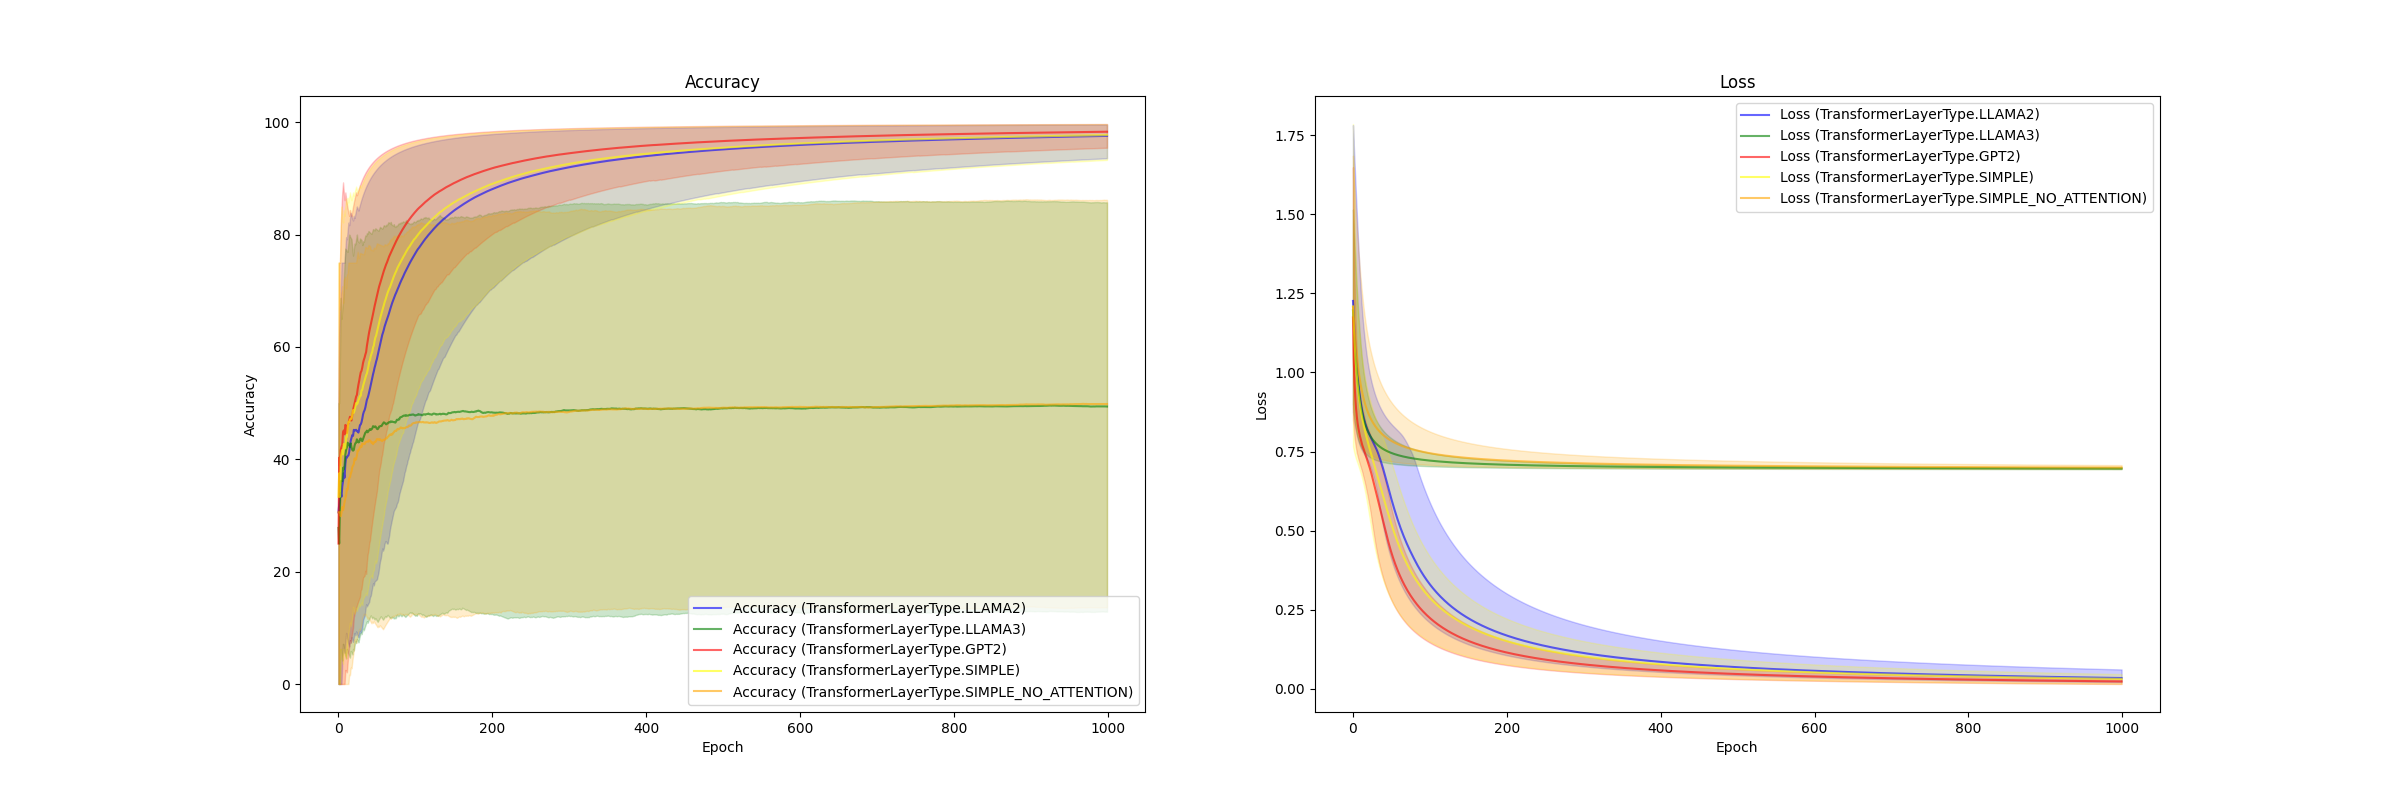
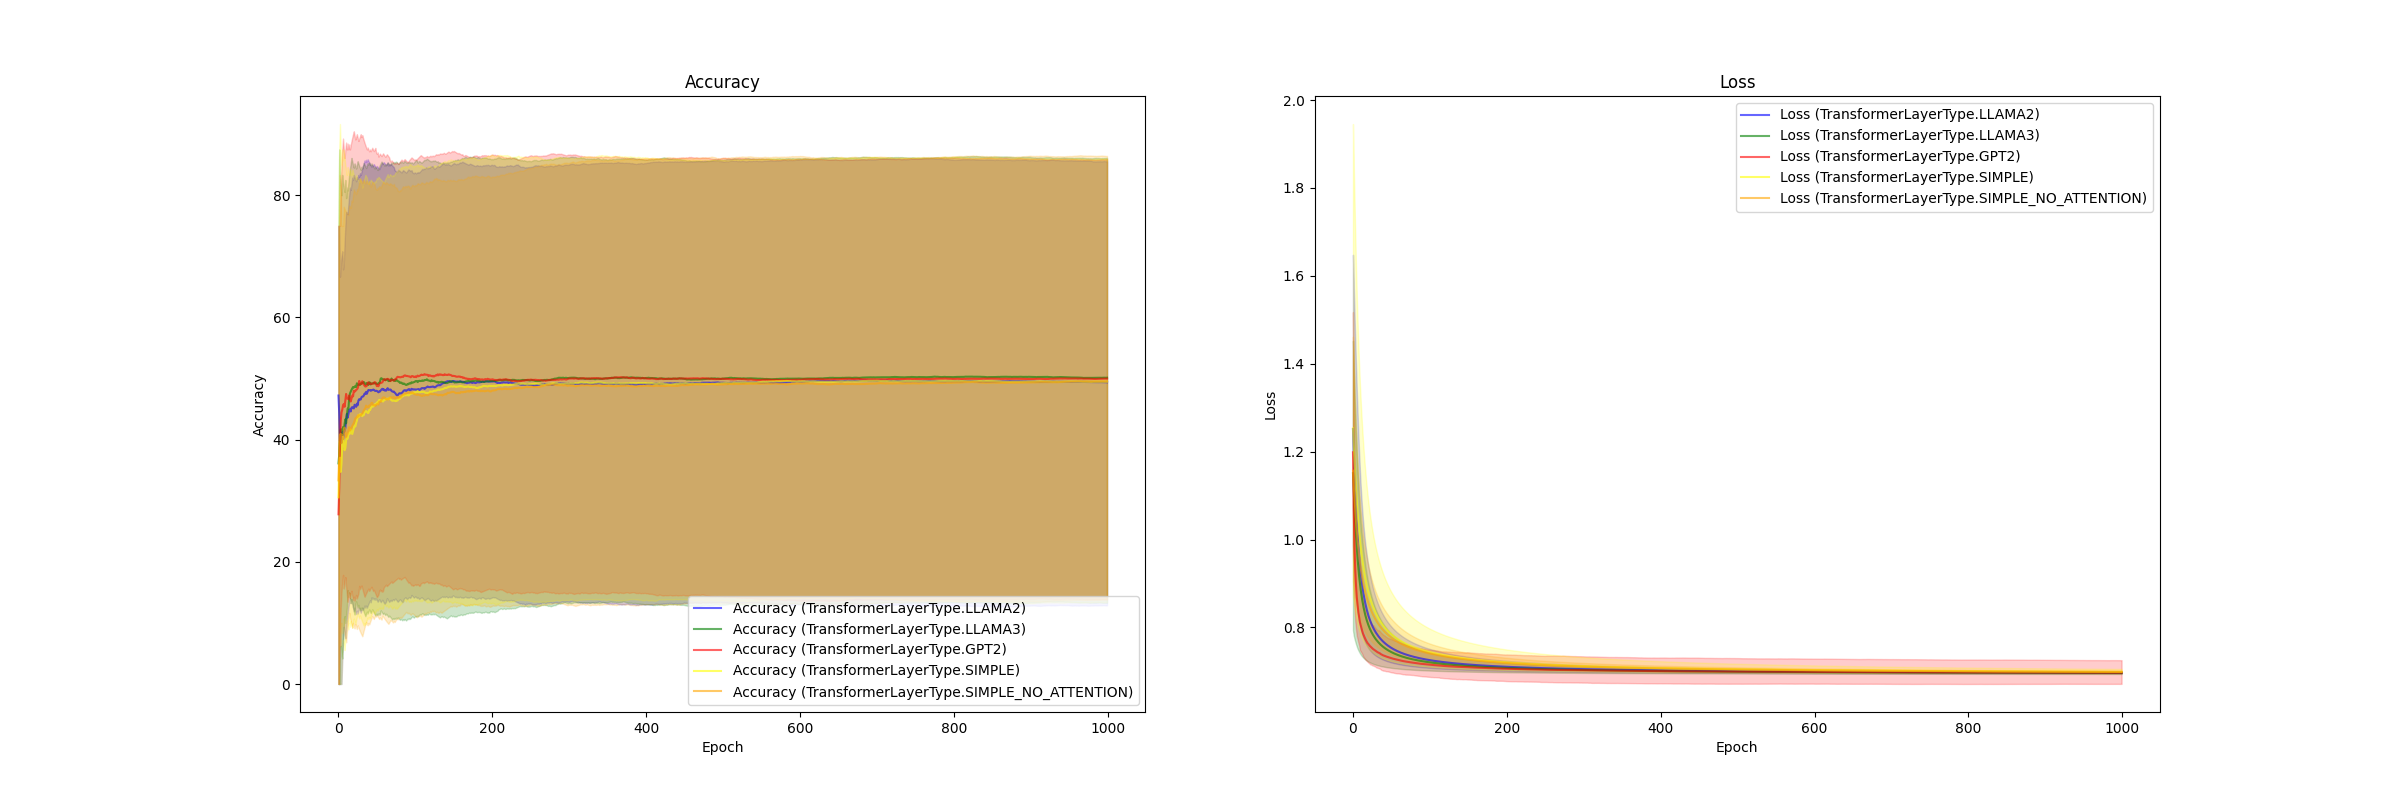
Add dyt layer

Changed region(s): [[0.0938, 0.1562, 0.4688, 0.8438], [0.5312, 0.3125, 0.9062, 0.875], [0.5, 0.5, 0.5312, 0.5312]]

diff --git a/nlp/transformer-hacks/model.py b/nlp/transformer-hacks/model.py
@@ -7,7 +7,7 @@ from optimization_playground_shared.nlp.PositionalEncoding import (
 )
 from enum import Enum
 import torch.nn.functional as F
-from layers import SimpleGQA
+from layers import SimpleGQA, MultiheadAttention, DyT
 
 class PositionalEmbeddingType(Enum):
     NONE = 0
@@ -23,6 +23,11 @@ class TransformerLayerType(Enum):
     LLAMA2 = 3
     LLAMA3 = 4
 
+class NormalizationLayerType(Enum):
+    LAYER_NORM = 0
+    DyT = 1
+
+
 @dataclass
 class Config:
     sequence_length: int
@@ -33,7 +38,23 @@ class Config:
     padding_index: int
     positional_embedding: PositionalEmbeddingType = PositionalEmbeddingType.NN_EMBEDDING
     transformer_layer: TransformerLayerType = TransformerLayerType.SIMPLE
+    normalization_layer: NormalizationLayerType =NormalizationLayerType.LAYER_NORM
     dropout: float = 0.01
+
+class NormalizationLayer(nn.Module):
+    def __init__(self, config: Config, size):
+        super().__init__()
+        self.config = config
+        
+        if self.config.normalization_layer == NormalizationLayerType.DyT:
+            self.norm = DyT(size)
+        elif self.config.normalization_layer == NormalizationLayerType.LAYER_NORM:
+            self.norm = nn.LayerNorm(size)
+        else:
+            raise Exception(f"Unknown {self.config.normalization_layer}")
+
+    def forward(self, X):
+        return self.norm(X)
 
 class LlamaFeedForward(nn.Module):
     def __init__(self, config: Config):
@@ -65,10 +86,9 @@ class RoPEMultiheadAttention(nn.Module):
                 num_groups=1,
             )
         else:
-            self.mha = nn.MultiheadAttention(
+            self.mha = MultiheadAttention(
                 embed_dim=embed_dim,
-                num_heads=num_heads,
-                batch_first=True,
+                num_query_heads=num_heads,
             )
         self.rope = RotaryPositionalEncoding(
             d_model=embed_dim, max_len=max_len
@@ -131,10 +151,9 @@ class GptTransformerLayer(nn.Module):
     def __init__(self, config: Config):
         super().__init__()
         self.configs = config
-        self.self_attention = nn.MultiheadAttention(
+        self.self_attention = MultiheadAttention(
             embed_dim=config.dim_embeddings,
-            num_heads=config.num_attention_heads,
-            batch_first=True,
+            num_query_heads=config.num_attention_heads,
         )
         self.dropout = nn.Dropout(p=self.configs.dropout)
         self.linear = nn.Sequential(
@@ -144,8 +163,8 @@ class GptTransformerLayer(nn.Module):
                 nn.Linear(256, self.configs.dim_embeddings),
             ]
         )
-        self.layer_norm_in = nn.LayerNorm(config.dim_embeddings)
-        self.layer_norm_out = nn.LayerNorm(config.dim_embeddings)
+        self.layer_norm_in = NormalizationLayer(config, config.dim_embeddings)
+        self.layer_norm_out = NormalizationLayer(config, config.dim_embeddings)
 
     def forward(self, X, mask):
         attn_output = self.get_attention_output(X, mask)
@@ -161,10 +180,9 @@ class SimpleTransformerLayer(nn.Module):
     def __init__(self, config: Config):
         super().__init__()
         self.configs = config
-        self.self_attention = nn.MultiheadAttention(
+        self.self_attention = MultiheadAttention(
             embed_dim=config.dim_embeddings,
-            num_heads=config.num_attention_heads,
-            batch_first=True,
+            num_query_heads=config.num_attention_heads,
         )
         self.module = nn.Sequential(
             *[
@@ -172,8 +190,8 @@ class SimpleTransformerLayer(nn.Module):
                 nn.ReLU(),
             ]
         )
-        self.layer_norm_in = nn.LayerNorm(config.dim_embeddings)
-        self.layer_norm_out = nn.LayerNorm(config.dim_embeddings)
+        self.layer_norm_in = NormalizationLayer(config, config.dim_embeddings)
+        self.layer_norm_out = NormalizationLayer(config, config.dim_embeddings)
 
     def forward(self, X, mask):
         attn_output = self.get_attention_output(X, mask)
@@ -271,7 +289,7 @@ class Model(nn.Module):
         self.output_layer = nn.Linear(
             self.config.dim_embeddings, self.config.vocab_size
         )
-        self.layer_norm = nn.LayerNorm(self.config.dim_embeddings)
+        self.layer_norm = NormalizationLayer(config, self.config.dim_embeddings)
 
     def forward(self, x: torch.Tensor):
         assert len(x.shape) == 2

diff --git a/nlp/transformer-hacks/layers.py b/nlp/transformer-hacks/layers.py
@@ -1,14 +1,14 @@
+import torch
 import torch.nn as nn
 import torch.nn.functional as F
 
-class SimpleGQA(nn.Module):
-    def __init__(self, embed_dim, num_query_heads, num_groups):
-        super(SimpleGQA, self).__init__()
-        assert num_query_heads % num_groups == 0, "num_query_heads must be divisible by num_groups"
-        
+class MultiheadAttention(nn.Module):
+    def __init__(self, embed_dim, num_query_heads, num_groups=None):
+        super().__init__()
+
         self.embed_dim = embed_dim
         self.num_query_heads = num_query_heads
-        self.num_groups = num_groups
+        self.num_groups = num_query_heads if num_groups is None else num_groups
         self.head_dim = embed_dim // num_query_heads
         
         # Linear projections
@@ -16,6 +16,40 @@ class SimpleGQA(nn.Module):
         self.k_proj = nn.Linear(embed_dim, self.num_groups * self.head_dim)
         self.v_proj = nn.Linear(embed_dim, self.num_groups * self.head_dim)
         self.out_proj = nn.Linear(embed_dim, embed_dim)
+        self.enable_gqa = not (num_groups is None)
+
+    def forward(self, query, key, value, attn_mask=None, is_causal=False):
+        batch_size, seq_len, _ = query.size()
+        
+        # Project to Q, K, V
+        q: torch.Tensor = self.q_proj(query).view(batch_size, seq_len, self.num_query_heads, self.head_dim)
+        k: torch.Tensor = self.k_proj(key).view(batch_size, seq_len, self.num_groups, self.head_dim)
+        v: torch.Tensor = self.v_proj(value).view(batch_size, seq_len, self.num_groups, self.head_dim)
+        
+        # Transpose to [batch, heads, seq, head_dim]
+        q = q.transpose(1, 2)
+        k = k.transpose(1, 2)
+        v = v.transpose(1, 2)
+        
+        out = F.scaled_dot_product_attention(
+            q, k, v,
+            attn_mask=attn_mask,
+            dropout_p=0.0,
+            is_causal=is_causal,
+            enable_gqa=self.enable_gqa,
+        )
+        
+        out = out.transpose(1, 2).contiguous().view(batch_size, seq_len, self.embed_dim)
+        return self.out_proj(out), None
+
+class SimpleGQA(MultiheadAttention):
+    def __init__(self, embed_dim, num_query_heads, num_groups):
+        super().__init__(
+            embed_dim,
+            num_query_heads,
+            num_groups,
+        )
+        assert num_query_heads % num_groups == 0, "num_query_heads must be divisible by num_groups"        
 
     def forward(self, query, key, value, attn_mask=None, is_causal=False):
         batch_size, seq_len, _ = query.size()
@@ -42,3 +76,15 @@ class SimpleGQA(nn.Module):
         # Reshape and project back
         out = out.transpose(1, 2).contiguous().view(batch_size, seq_len, self.embed_dim)
         return self.out_proj(out), None
+
+# https://arxiv.org/pdf/2503.10622
+class DyT(nn.Module):
+    def __init__(self, C, init_α = 0.5):
+        super().__init__()
+        self.α = nn.Parameter(torch.ones(1) * init_α)
+        self.γ = nn.Parameter(torch.ones(C))
+        self.β = nn.Parameter(torch.zeros(C))
+
+    def forward(self, x):
+        x = F.tanh(self.α * x)
+        return self.γ * x + self.β

diff --git a/nlp/transformer-hacks/experiments.py b/nlp/transformer-hacks/experiments.py
@@ -1,4 +1,4 @@
-from model import Config, PositionalEmbeddingType, TransformerLayerType
+from model import Config, PositionalEmbeddingType, TransformerLayerType, NormalizationLayerType
 from plot import plot_accuracy_loss, Results, MinMaxArray
 from transformer_dataset import XorDataset
 from typing import Callable
@@ -15,15 +15,6 @@ def positional_override(
 ) -> Callable[[Config], Config]:
     def override(config: Config):
         config.positional_embedding = positional_embedding
-        return config
-
-    return override
-
-def attention_override(
-    attention_type: TransformerLayerType,
-) -> Callable[[Config], Config]:
-    def override(config: Config):
-        config.transformer_layer = attention_type
         return config
 
     return override
@@ -52,6 +43,14 @@ def positional_embeddings():
         )
     plot_accuracy_loss(data, "positional_embeddings.png")
 
+def attention_override(
+    attention_type: TransformerLayerType,
+) -> Callable[[Config], Config]:
+    def override(config: Config):
+        config.transformer_layer = attention_type
+        return config
+
+    return override
 
 def transformer_layer():
     data = {}
@@ -78,6 +77,38 @@ def transformer_layer():
     plot_accuracy_loss(data, "transformer_layer.png")
 
 
+def normalization_layer_override(
+    normalization_layer: NormalizationLayerType,
+) -> Callable[[Config], Config]:
+    def override(config: Config):
+        config.normalization_layer = normalization_layer
+        return config
+
+    return override
+
+def normalization_layer():
+    data = {}
+    for positional_embedding in [
+        NormalizationLayerType.LAYER_NORM,
+        NormalizationLayerType.DyT,
+    ]:
+        epochs_accuracy = MinMaxArray()
+        epochs_loss = MinMaxArray()
+        for _ in range(10):
+            (_, accuracy, loss) = train(
+                XorDataset(), normalization_layer_override(positional_embedding)
+            )
+            epochs_accuracy.add(accuracy)
+            epochs_loss.add(loss)
+            assert len(epochs_accuracy.min_max_avg) == len(accuracy)
+        data[positional_embedding] = Results(
+            accuracy=epochs_accuracy,
+            loss=epochs_loss,
+        )
+    plot_accuracy_loss(data, "normalization_layer.png")
+
+
 if __name__ == "__main__":
     positional_embeddings()
     transformer_layer()
+    normalization_layer()

diff --git a/nlp/transformer-hacks/transformer_dataset.py b/nlp/transformer-hacks/transformer_dataset.py
@@ -26,7 +26,6 @@ class SimpleTextEncoder:
         word_idx = word_idx.item() if isinstance(word_idx, torch.Tensor) else word_idx
         return self.idx_vocab[word_idx]
 
-
 class TransformerDataset(ABC):
     @property
     @abstractmethod

diff --git a/nlp/transformer-hacks/train.py b/nlp/transformer-hacks/train.py
@@ -7,7 +7,6 @@ from optimization_playground_shared.nlp.utils.sampling import (
 )
 from typing import Callable
 
-
 def create_config(vocab_size, padding_index, sequence_length):
     return Config(
         sequence_length=sequence_length,

diff --git a/nlp/transformer-hacks/plot.py b/nlp/transformer-hacks/plot.py
@@ -102,4 +102,4 @@ def plot_accuracy_loss(results: Dict[str, Results], file_name: str):
 
     file_name = file_name.split(".")[0]
     plt.savefig(f"{file_name}.png")
-    plt.close()
+    plt.close('all')

diff --git a/nlp/transformer-hacks/reamde.md b/nlp/transformer-hacks/reamde.md
@@ -3,7 +3,14 @@ Meant to be transformer version of [gan-hacks](/gan/gan-hacks)
 ## Good resources
 - [Converting a From-Scratch GPT Architecture to Llama 2](https://github.com/rasbt/LLMs-from-scratch/blob/main/ch05/07_gpt_to_llama/converting-gpt-to-llama2.ipynb?trk=public_post_comment-text)
 - [LLAMA source code](https://github.com/meta-llama/llama/blob/main/llama/model.py)
+- [Transformers and Multi-Head Attention](https://uvadlc-notebooks.readthedocs.io/en/latest/tutorial_notebooks/tutorial6/Transformers_and_MHAttention.html)
+
+## Post training
+- [Speculative sampling](https://jaykmody.com/blog/speculative-sampling/)
+
+## Interference
+- [Mastering LLM Techniques: Inference Optimization](https://developer.nvidia.com/blog/mastering-llm-techniques-inference-optimization/)
+- [KV cache](https://medium.com/@joaolages/kv-caching-explained-276520203249)
 
 ## TODO
-- [Transformers without Normalization](https://huggingface.co/papers/2503.10622)
 - Benchmark [DeepSeek v3](https://github.com/deepseek-ai/DeepSeek-V3/blob/main/inference/model.py) layers also
